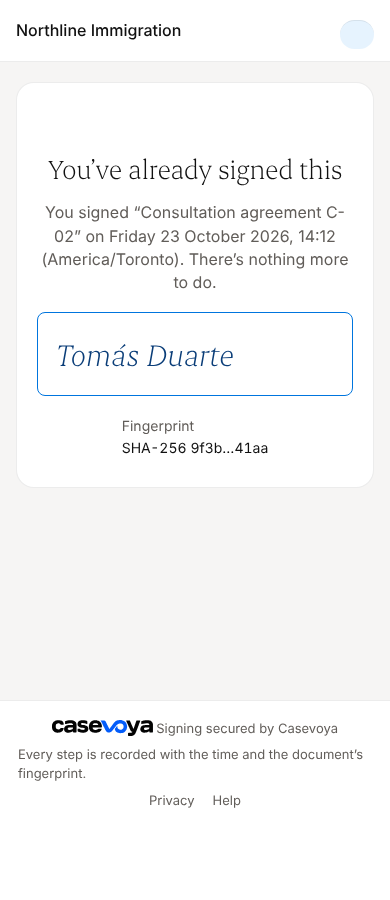
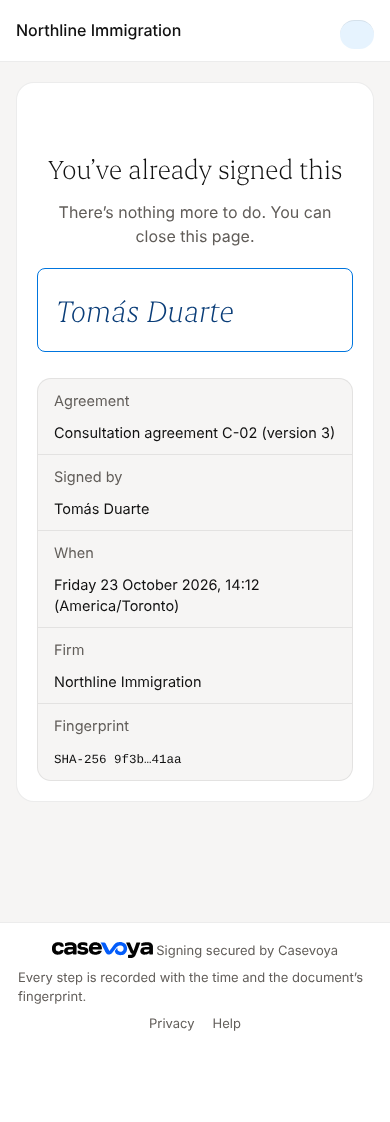
Signing page: tidy spacing and arrangement
- Done and Already signed end with an even, centred receipt (agreement,
  signed by, when, firm, fingerprint) instead of left-aligned rows under a
  centred heading; it stacks on a phone.
- The declined card shows the booker's reason in its own quote block (no
  doubled full stop after the quote).
- Review: the version and the fingerprint sit on their own lines under the
  text; the sidebar shows the short fingerprint instead of wrapping 64
  characters over four lines.
- Headings balance and leads wrap cleanly, so titles don't break mid-word.
- Screenshots refreshed.

Claude-Session: https://claude.ai/code/session_016fkfHxqRwb5WNzyNHZab58

diff --git a/src/components/sheet/agreement-sign.tsx b/src/components/sheet/agreement-sign.tsx
@@ -10,7 +10,7 @@
  * Every form is a live form (data-live="1"). Errors sit inline next to the control (role=alert);
  * the receipt card, not a toast, says it is signed.
  */
-import { useEffect, useRef, useState, type FormEvent, type PointerEvent, type ReactNode } from "react";
+import { Fragment, useEffect, useRef, useState, type FormEvent, type PointerEvent, type ReactNode } from "react";
 import { Icon } from "@/components/sheet/designer/frame";
 import { firstName, shortFingerprint, type SigningView } from "@/modules/scheduling/agreement-sign-present";
 import {
@@ -85,9 +85,18 @@ export const SIGN_PAGE_CSS = `
 .es-otp.bad input{border-color:var(--bad);background:#fffaf9}
 .es-msg{font-size:14px;min-height:20px;margin:0}.es-msg.bad{color:var(--bad)}.es-msg.ok{color:#1f7a45}
 .es .fp-short{display:none}
+.es h1{text-wrap:balance}.es .lead{text-wrap:pretty}
+.es-receipt{display:grid;grid-template-columns:120px minmax(0,1fr);gap:0;margin:20px auto 0;width:min(520px,100%);text-align:left;font-size:14.5px;border:1px solid var(--line);border-radius:14px;background:var(--canvas);overflow:hidden}
+.es-receipt dt,.es-receipt dd{margin:0;padding:11px 16px;border-top:1px solid var(--line)}
+.es-receipt dt{color:var(--t2)}.es-receipt dd{overflow-wrap:anywhere}
+.es-receipt dt:first-of-type,.es-receipt dt:first-of-type+dd{border-top:0}
+.es-receipt .fp{font-family:ui-monospace,SFMono-Regular,Menlo,monospace;font-size:12.5px;word-break:break-all}
+.es-quote{margin:4px auto 0;max-width:46ch;padding:12px 16px;border-left:3px solid var(--line);background:var(--canvas);border-radius:0 10px 10px 0;text-align:left;font-size:15px;color:var(--ink);overflow-wrap:anywhere}
+.es-version{display:grid;gap:2px;font-size:12.5px;color:var(--t2)}.es-version .fp-full{font-family:ui-monospace,SFMono-Regular,Menlo,monospace;word-break:break-all}
 .es-dlg[open]{border:0;border-radius:16px;padding:0;max-width:520px;width:calc(100% - 32px)}
 @media (max-width:1000px){.es-rev{grid-template-columns:1fr}.es-side{position:static}}
-@media (max-width:640px){.es-top{padding:12px 16px}.es-top img{height:22px}.es-top .sec span{display:none}.es-top .sec{padding:6px 9px}
+@media (max-width:640px){.es-receipt{grid-template-columns:1fr}.es-receipt dd{border-top:0;padding-top:0}
+ .es-top{padding:12px 16px}.es-top img{height:22px}.es-top .sec span{display:none}.es-top .sec{padding:6px 9px}
  .es-act .btn{flex:1 1 100%}.es-meta{grid-template-columns:1fr;gap:2px}.es-meta dd{margin-bottom:8px}
  .es-bar{display:flex;position:fixed;left:0;right:0;bottom:0;z-index:20;gap:10px;align-items:center;padding:12px 16px calc(12px + env(safe-area-inset-bottom));background:#fff;border-top:1px solid var(--line)}
  .es-bar .btn{flex:1;height:48px}.es-bar small{font-size:13px;color:var(--t2);flex:none}
@@ -106,6 +115,28 @@ function Fingerprint({ sha256 }: { sha256: string }) {
       </span>
       <span className={"fp-short"}>{shortFingerprint(sha256)}</span>
     </span>
+  );
+}
+
+/** The receipt rows: what was signed, by whom, when, and the fingerprint. */
+function Receipt({ rows, sha256 }: { rows: [string, string][]; sha256: string }) {
+  return (
+    <dl className={"es-receipt"}>
+      {rows.map(([term, value]) => (
+        <Fragment key={term}>
+          <dt>{term}</dt>
+          <dd>{value}</dd>
+        </Fragment>
+      ))}
+      <dt>{"Fingerprint"}</dt>
+      <dd>
+        <span className={"fp"}>
+          {"SHA-256 "}
+          <span className={"fp-full"}>{sha256}</span>
+          <span className={"fp-short"}>{shortFingerprint(sha256)}</span>
+        </span>
+      </dd>
+    </dl>
   );
 }
 
@@ -197,8 +228,9 @@ function EndCard({ view, reference }: { view: Shown; reference: string }) {
       <div className={"es-card es-done"}>
         <Icon name={"file-check"} />
         <h1>{"You declined to sign"}</h1>
-        <p className={"lead"}>{`${view.firm} was told, with your reason: “${view.reason}”. Nothing was signed.`}</p>
-        <p className={"fp-note"} style={{ margin: "6px auto 0" }}>
+        <p className={"lead"}>{`${view.firm} was told you declined, with your reason. Nothing was signed.`}</p>
+        <blockquote className={"es-quote"}>{view.reason}</blockquote>
+        <p className={"fp-note"} style={{ margin: "12px auto 0" }}>
           {`Changed your mind? ${view.firm} can send you a corrected version.`}
         </p>
         <div className={"es-act"}>
@@ -224,18 +256,19 @@ function EndCard({ view, reference }: { view: Shown; reference: string }) {
       <div className={"es-card es-done"}>
         <Icon name={"check-circle"} />
         <h1>{"You’ve already signed this"}</h1>
-        <p className={"lead"}>
-          {`You signed “${view.title}”${view.signedAt ? ` on ${longWhen(Date.parse(view.signedAt), view.timeZone)}` : ""}. There’s nothing more to do.`}
-        </p>
-        <div style={{ width: "min(420px,100%)", marginTop: "12px" }}>
+        <p className={"lead"}>{"There’s nothing more to do. You can close this page."}</p>
+        <div style={{ width: "min(520px,100%)", marginTop: "14px" }}>
           <MarkView mark={{ kind: view.signatureKind ?? "typed", name: view.signedName ?? "", preview: view.signatureImage }} />
         </div>
-        <dl className={"es-meta"}>
-          <dt>{"Fingerprint"}</dt>
-          <dd>
-            <Fingerprint sha256={view.sha256} />
-          </dd>
-        </dl>
+        <Receipt
+          rows={[
+            ["Agreement", `${view.title} (version ${view.version})`],
+            ["Signed by", view.signedName ?? ""],
+            ["When", view.signedAt ? longWhen(Date.parse(view.signedAt), view.timeZone) : "Signed"],
+            ["Firm", view.firm],
+          ]}
+          sha256={view.sha256}
+        />
       </div>
     );
   }
@@ -684,10 +717,10 @@ function Flow({
               <div className={"text"} tabIndex={0}>
                 {view.body}
               </div>
-              <small className={"fp-note"} style={{ margin: 0 }}>
-                {`Version ${view.version} · `}
+              <div className={"es-version"}>
+                <span>{`Version ${view.version}`}</span>
                 <Fingerprint sha256={view.sha256} />
-              </small>
+              </div>
               <div>
                 <small style={{ color: "var(--t2)" }}>{"Your signature"}</small>
                 {mark ? (
@@ -723,9 +756,7 @@ function Flow({
                 <dt>{"For"}</dt>
                 <dd>{view.meeting}</dd>
                 <dt>{"Fingerprint"}</dt>
-                <dd>
-                  <Fingerprint sha256={view.sha256} />
-                </dd>
+                <dd className={"num"} title={view.sha256}>{`SHA-256 ${shortFingerprint(view.sha256)}`}</dd>
               </dl>
             </div>
             <div className={"es-act"}>
@@ -869,18 +900,15 @@ function Flow({
       <Icon name={"check-circle"} />
       <h1 ref={heading} tabIndex={-1}>{`Signed. Thank you, ${first}.`}</h1>
       <p className={"lead"}>{`${view.firm} has the signed agreement. You can close this page.`}</p>
-      <dl className={"es-meta"}>
-        <dt>{"Signed by"}</dt>
-        <dd>{mark?.name ?? view.attendee}</dd>
-        <dt>{"When"}</dt>
-        <dd>{signedAt ? longWhen(Date.parse(signedAt), view.timeZone) : "Just now"}</dd>
-        <dt>{"Firm"}</dt>
-        <dd>{view.firm}</dd>
-        <dt>{"Fingerprint"}</dt>
-        <dd>
-          <Fingerprint sha256={view.sha256} />
-        </dd>
-      </dl>
+      <Receipt
+        rows={[
+          ["Agreement", `${view.title} (version ${view.version})`],
+          ["Signed by", mark?.name ?? view.attendee ?? ""],
+          ["When", signedAt ? longWhen(Date.parse(signedAt), view.timeZone) : "Just now"],
+          ["Firm", view.firm],
+        ]}
+        sha256={view.sha256}
+      />
     </div>
   );
 }

diff --git a/tests/booking-agreements.test.tsx b/tests/booking-agreements.test.tsx
@@ -104,7 +104,7 @@ describe("consultation agreement: the private link", () => {
     if (declined.state !== "declined") throw new Error("unexpected");
     const declinedHtml = render({ view: declined, reference: REF });
     expect(declinedHtml).toContain("You declined to sign");
-    expect(declinedHtml).toContain("“The fee is wrong.”");
+    expect(declinedHtml).toContain(">The fee is wrong.</blockquote>");
     expect(declinedHtml).toContain("Message Northline Immigration");
     const withdrawn = render({ view: { state: "withdrawn", firm: "Northline Immigration", firmSlug: null }, reference: REF });
     expect(withdrawn).toContain("This agreement was withdrawn.");
